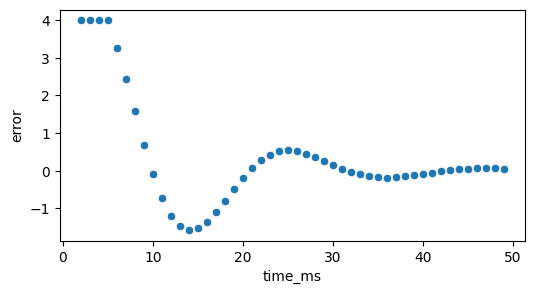
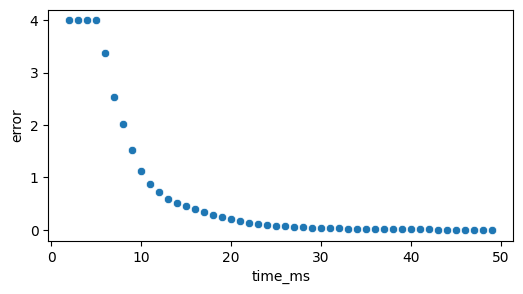
Simulation working perfectly.

diff --git a/README.md b/README.md
@@ -90,7 +90,12 @@ _ = sns.scatterplot(dfp.filter( pl.col('time_ms')<50 ),x='time_ms',y='error',ax=
 
 The oscillations seen above can be prevented with the addition of a control proportional to the derivative of the signal. 
 
-* Kd = 
+The configuration:
+* Kp = 32/256 = 0.125
+* Ki = 8/256 = 0.031
+* kd = 16/256 = 0.062
+
+results in the graph seen below. 
 
 
 ```python
@@ -99,7 +104,7 @@ importlib.reload(dataplotter) # dataplotter is a separate script I wrote to make
 import seaborn as sns
 import matplotlib.pyplot as plt
 # Preprocess the data
-df = pl.read_csv(r'C:\prog\repos\PID_temperature_controller\data\sim_data_current_PI.csv')
+df = pl.read_csv(r'C:\prog\repos\PID_temperature_controller\data\sim_data_current_PID.csv')
 dfp = df.with_columns(((pl.col('Time')*1e-9)*1e3).alias('time_ms')).filter( pl.col('time_ms')>2)
 
 fig, ax = plt.subplots(figsize=(6, 3))
@@ -111,8 +116,3 @@ _ = sns.scatterplot(dfp.filter( pl.col('time_ms')<50 ),x='time_ms',y='error',ax=
 ![png](README_files/README_6_0.png)
     
 
-
-
-```python
-
-```
